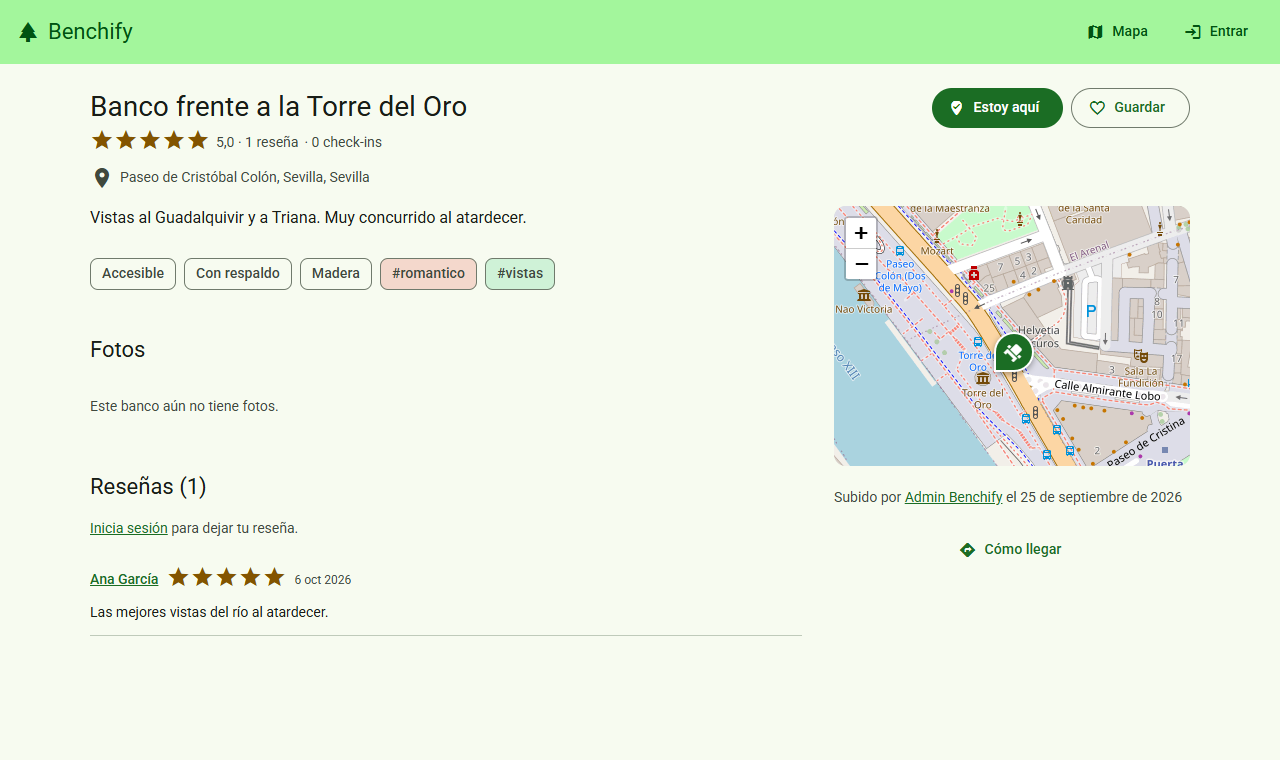
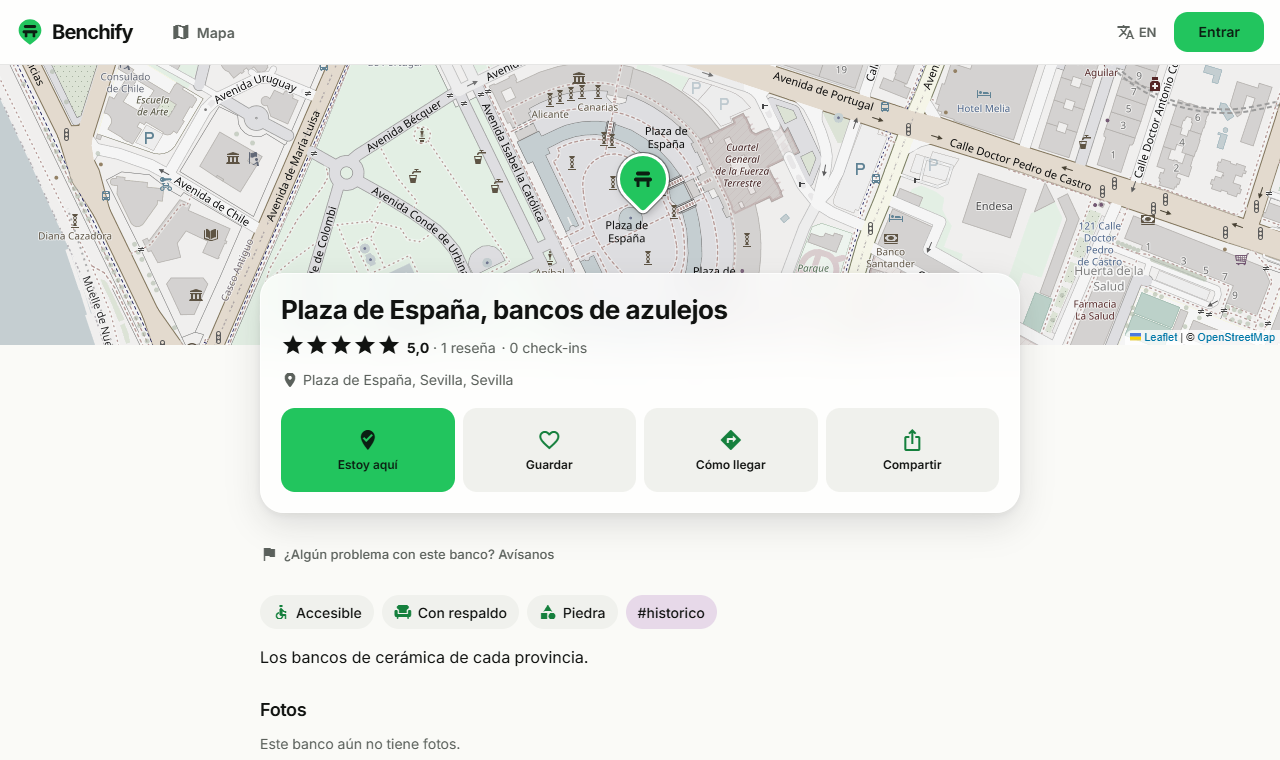
docs(readme): bring the README up to date with 2.0.0
Features, packages, stack, environment variables, test counts and coverage, deployment and workflow now match the code. Screenshots retaken with the new design. The stack e2e login matches the password field exactly, since the show-password button shares its label.

diff --git a/frontend/e2e/stack.spec.ts b/frontend/e2e/stack.spec.ts
@@ -10,7 +10,7 @@ const PASSWORD = process.env['SEED_USERS_PASSWORD'] ?? 'benchify-dev';
 async function login(page: Page, email: string): Promise<void> {
   await page.goto('/login');
   await page.getByLabel('Email').fill(email);
-  await page.getByLabel('Contraseña').fill(PASSWORD);
+  await page.getByLabel('Contraseña', { exact: true }).fill(PASSWORD);
   await page.getByRole('button', { name: 'Entrar', exact: true }).click();
   await expect(page).toHaveURL(/\/mapa$/);
 }

diff --git a/README.md b/README.md
@@ -3,36 +3,44 @@
 # 🌳 Benchify
 
 **Mapa colaborativo de bancos públicos.** Descubre bancos cerca de ti, valóralos, guárdalos en
-favoritos, haz check-in cuando te sientes en uno y comparte fotos. Cada aportación pasa por moderación.
+favoritos, haz check-in cuando te sientes en uno, comparte fotos y avisa si alguno está roto. Cada
+aportación pasa por moderación. En español e inglés, y se instala como aplicación.
 
 [![CI](https://github.com/Maanuu77/Benchify/actions/workflows/ci.yml/badge.svg?branch=main)](https://github.com/Maanuu77/Benchify/actions/workflows/ci.yml)
+[![Versión](https://img.shields.io/github/v/release/Maanuu77/Benchify?label=versi%C3%B3n)](https://github.com/Maanuu77/Benchify/releases/latest)
 ![Java 21](https://img.shields.io/badge/Java-21-007396?logo=openjdk&logoColor=white)
 ![Spring Boot 4.1](https://img.shields.io/badge/Spring%20Boot-4.1-6DB33F?logo=springboot&logoColor=white)
-![Angular 21](https://img.shields.io/badge/Angular-21-DD0031?logo=angular&logoColor=white)
+![Angular 22](https://img.shields.io/badge/Angular-22-DD0031?logo=angular&logoColor=white)
 ![PostGIS](https://img.shields.io/badge/PostgreSQL%2017-PostGIS-336791?logo=postgresql&logoColor=white)
-![Firebase](https://img.shields.io/badge/Firebase-Auth%20%7C%20Storage%20%7C%20Hosting-FFCA28?logo=firebase&logoColor=black)
-![Cobertura backend](https://img.shields.io/badge/cobertura%20backend-95%25-brightgreen)
+![Firebase](https://img.shields.io/badge/Firebase-Auth%20%7C%20Hosting-FFCA28?logo=firebase&logoColor=black)
+![Cobertura backend](https://img.shields.io/badge/cobertura%20backend-96%25-brightgreen)
 
 </div>
 
 <p align="center">
-  <img src="docs/screenshots/mapa.png" alt="Mapa de bancos de Sevilla con marcadores agrupados y lista de los mejor valorados" width="820" />
+  <img src="docs/screenshots/mapa.png" alt="Mapa de Sevilla a pantalla completa con buscador de direcciones, filtros en píldoras y lista de bancos en un panel lateral" width="820" />
 </p>
 
 | Ficha de banco | Moderación | Móvil (modo oscuro) |
 |---|---|---|
-| <img src="docs/screenshots/detalle.png" alt="Ficha de un banco con valoración, características, mapa y reseñas" width="360" /> | <img src="docs/screenshots/admin.png" alt="Panel de moderación con contadores de pendientes" width="360" /> | <img src="docs/screenshots/mapa-movil.png" alt="Mapa en un móvil con el panel de filtros debajo" width="160" /> |
+| <img src="docs/screenshots/detalle.png" alt="Ficha de un banco con su mapa, valoración y botones para hacer check-in, guardar, llegar y compartir" width="360" /> | <img src="docs/screenshots/admin.png" alt="Panel de moderación con pestañas y contadores de pendientes" width="360" /> | <img src="docs/screenshots/mapa-movil.png" alt="Mapa en modo oscuro en un móvil, con filtros arriba, hoja inferior con la lista y barra de navegación" width="160" /> |
 
 ## Funcionalidades
 
-- **Mapa** con clustering, filtros (accesible, sombra, respaldo, etiqueta, valoración) y búsqueda
-  **cerca de mí** con distancias reales calculadas por PostGIS.
-- **Fichas** con reseñas (1–5 ★), fotos, favoritos, check-in validado por proximidad (≤ 150 m)
-  y enlace para llegar.
-- **Contribución**: alta y edición de bancos con selector en el mapa y subida de fotos.
-- **Moderación**: cola de bancos, reseñas reportadas (3 reportes de usuarios distintos), fotos
-  pendientes y gestión de roles.
-- **Cuentas** con Firebase Authentication (email/contraseña y Google) y perfiles públicos.
+- **Mapa** a pantalla completa con clústeres, filtros en píldoras (accesible, sombra, respaldo,
+  etiqueta, valoración), búsqueda **cerca de mí** con distancias reales calculadas por PostGIS y
+  buscador de direcciones (OpenStreetMap). La vista y los filtros viajan en la URL.
+- **Fichas** con reseñas (1–5 ★), fotos, favoritos, check-in validado por proximidad (≤ 150 m),
+  enlace para llegar y **enlace para compartir** con vista previa en WhatsApp, Telegram o X.
+- **Avisos** de bancos rotos, sucios o desaparecidos, con resumen público en la ficha.
+- **Contribución**: alta de bancos con selector en el mapa y subida de fotos (se reducen en el
+  navegador). Las ediciones de un banco publicado quedan pendientes sin retirarlo del mapa.
+- **Moderación**: colas de bancos, ediciones, fotos (con posibles duplicados por huella perceptual),
+  reseñas reportadas y avisos; motivo opcional, historial y gestión de roles.
+- **Cuentas** con Firebase Authentication (email/contraseña y Google), verificación del email para
+  publicar, notificaciones, perfiles públicos y baja de cuenta.
+- **Diseño** minimalista con modo claro y oscuro automático, navegación inferior en móvil,
+  **español e inglés** y **PWA** que funciona sin conexión con los últimos bancos vistos.
 
 ## Arquitectura
 
@@ -65,7 +73,10 @@ backend/src/main/java/com/benchify/
 ├── usuario/
 ├── favorito/
 ├── checkin/
-└── moderacion/
+├── moderacion/
+├── notificacion/
+├── incidencia/   Avisos de bancos en mal estado
+└── lugar/        Buscador de direcciones (Nominatim)
 ```
 
 ```mermaid
@@ -78,15 +89,15 @@ flowchart LR
 ```
 
 Decisiones documentadas en [`docs/adr`](docs/adr): monorepo, Spring Boot 4, hexagonal, PostGIS +
-Flyway, Firebase Auth, estrategia de tests, Angular 21 y despliegue.
+Flyway, Firebase Auth, estrategia de tests, frontend Angular y despliegue gratuito.
 
 ## Stack
 
 | Capa | Tecnologías |
 |------|-------------|
-| Backend | Java 21, Spring Boot 4.1 (Web MVC, Security, Data JPA, Validation, Actuator), Hibernate 7, Flyway, MapStruct, springdoc-openapi 3, Firebase Admin SDK |
-| Datos | PostgreSQL 17 + PostGIS 3.5 (`geography`, índices GIST, `ST_DWithin`) |
-| Frontend | Angular 21 (standalone, zoneless, signals, control flow), Angular Material 3, AngularFire 21, Leaflet + markercluster |
+| Backend | Java 21, Spring Boot 4.1 (Web MVC, Security, Data JPA, Validation, Actuator), Hibernate 7, Flyway, MapStruct, springdoc-openapi 3, Firebase Admin SDK, Bucket4j, Caffeine, Thumbnailator |
+| Datos | PostgreSQL 17 + PostGIS 3.5 (`geography`, índices GIST, `ST_DWithin`); las fotos, también en PostgreSQL en producción |
+| Frontend | Angular 22 y TypeScript 6 (standalone, zoneless, signals), Angular Material, SDK de Firebase, Leaflet + markercluster, service worker de Angular |
 | Tests | JUnit 5, Mockito, Testcontainers, ArchUnit, JaCoCo · Vitest, Playwright |
 | DevOps | Docker, docker compose, GitHub Actions, Dependabot, Render, Neon, Firebase Hosting |
 
@@ -129,8 +140,11 @@ Todas están descritas en [`.env.example`](.env.example). Las principales:
 | Variable | Perfil | Descripción |
 |----------|--------|-------------|
 | `DB_URL`, `DB_USERNAME`, `DB_PASSWORD` | dev / prod | Conexión JDBC (en prod, Neon con `sslmode=require`) |
-| `FIREBASE_PROJECT_ID`, `FIREBASE_STORAGE_BUCKET` | dev / prod | Proyecto de Firebase y bucket de fotos |
+| `FIREBASE_PROJECT_ID` | dev / prod | Proyecto de Firebase |
+| `ALMACEN_TIPO` | prod | Dónde se guardan las fotos: `postgres` (por defecto) o `firebase` (Cloud Storage, `FIREBASE_STORAGE_BUCKET`) |
+| `API_PUBLIC_URL` | prod | Dirección pública de la API para las URLs de las fotos (en Render se toma sola) |
 | `FIREBASE_AUTH_EMULATOR_HOST`, `FIREBASE_STORAGE_EMULATOR_URL` | dev | Emuladores locales |
+| `WEB_URL` | prod | Dirección de la web, para los enlaces para compartir y el sitemap |
 | `CORS_ALLOWED_ORIGINS` | prod | Orígenes del frontend, separados por comas |
 | `API_DOCS_ENABLED` | prod | Publica Swagger UI (`false` por defecto) |
 | `SEED_USERS_PASSWORD` | dev | Contraseña de los usuarios de prueba del emulador |
@@ -142,20 +156,24 @@ datos es una variable del servicio de Render y la clave de Firebase Admin, un *S
 ## Tests
 
 ```bash
-cd backend && ./mvnw verify            # 247 tests: unitarios, slices web, PostGIS (Testcontainers), ArchUnit, JaCoCo
-cd frontend && npm run test:ci         # Vitest con cobertura
+cd backend && ./mvnw verify            # 455 tests: unitarios, slices web, PostGIS (Testcontainers), ArchUnit, JaCoCo
+cd frontend && npm run test:ci         # 171 tests con Vitest y cobertura
 cd frontend && npm run e2e             # Playwright (escritorio y móvil) con la API simulada
 cd frontend && npm run e2e:stack       # Playwright contra backend + emuladores reales
 ```
 
 | Suite | Cobertura mínima | Actual |
 |-------|------------------|--------|
-| Backend (CI, con Testcontainers) | 85 % líneas · 70 % ramas | 95 % · 82 % |
-| Backend (local sin Docker) | 70 % · 60 % | 73 % · 73 % |
-| Frontend | 70 % líneas · 65 % ramas | 73 % · 73 % |
+| Backend (CI, con PostGIS) | 85 % líneas · 70 % ramas | 96 % · 84 % |
+| Backend (local sin PostGIS) | 70 % · 60 % | — |
+| Frontend | 70 % líneas · 65 % ramas | 76 % · 72 % |
+
+Sin Docker, los tests de integración pueden usar un PostGIS propio con `IT_DATABASE_URL`.
 
 GitHub Actions ejecuta un job por aplicación, filtrado por la carpeta que cambia: build, tests y
-cobertura del backend más la imagen Docker; lint, tests, build y e2e del frontend.
+cobertura del backend más la imagen Docker (analizada con Trivy); lint, tests, build y e2e del
+frontend. Además pasan CodeQL y la revisión de dependencias, y Dependabot propone las
+actualizaciones cada semana.
 
 ## API
 
@@ -170,15 +188,19 @@ siguen [RFC 9457](https://www.rfc-editor.org/rfc/rfc9457) con un `code` estable:
 ## Despliegue
 
 Todo en planes gratuitos sin tarjeta: frontend en **Firebase Hosting**, backend en **Render** y
-base de datos (con las fotos) en **Neon**. Guía paso a paso en [`deploy/README.md`](deploy/README.md)
+base de datos (con las fotos) en **Neon**. Render despliega el backend con cada cambio en `main` y
+GitHub Actions publica el frontend en Hosting sin claves (Workload Identity Federation), con canal
+de vista previa en cada PR. Guía paso a paso en [`deploy/README.md`](deploy/README.md)
 ([ADR-0010](docs/adr/0010-neon-y-despliegue-continuo.md)).
 
 ## Forma de trabajo
 
 - **Git Flow**: `main` (estable) ← `release/*` ← `develop` ← `feature/*`, `fix/*`, `chore/*`,
   `ci/*`, `docs/*`, integradas con `git merge --no-ff` y un mensaje tipo PR.
-- **Conventional Commits** en inglés, cada uno referenciando su issue del [roadmap](docs/ROADMAP.md).
-- Cambios en [`CHANGELOG.md`](CHANGELOG.md).
+- Una rama y un PR a `develop` por bloque de trabajo; se fusiona con la CI en verde.
+- **Conventional Commits** en inglés, cada uno referenciando su issue de GitHub
+  ([tablero](https://github.com/users/Maanuu77/projects/1), [roadmap](docs/ROADMAP.md)).
+- Cambios en [`CHANGELOG.md`](CHANGELOG.md) y versiones en [Releases](https://github.com/Maanuu77/Benchify/releases).
 
 ## Estructura del repositorio
 
